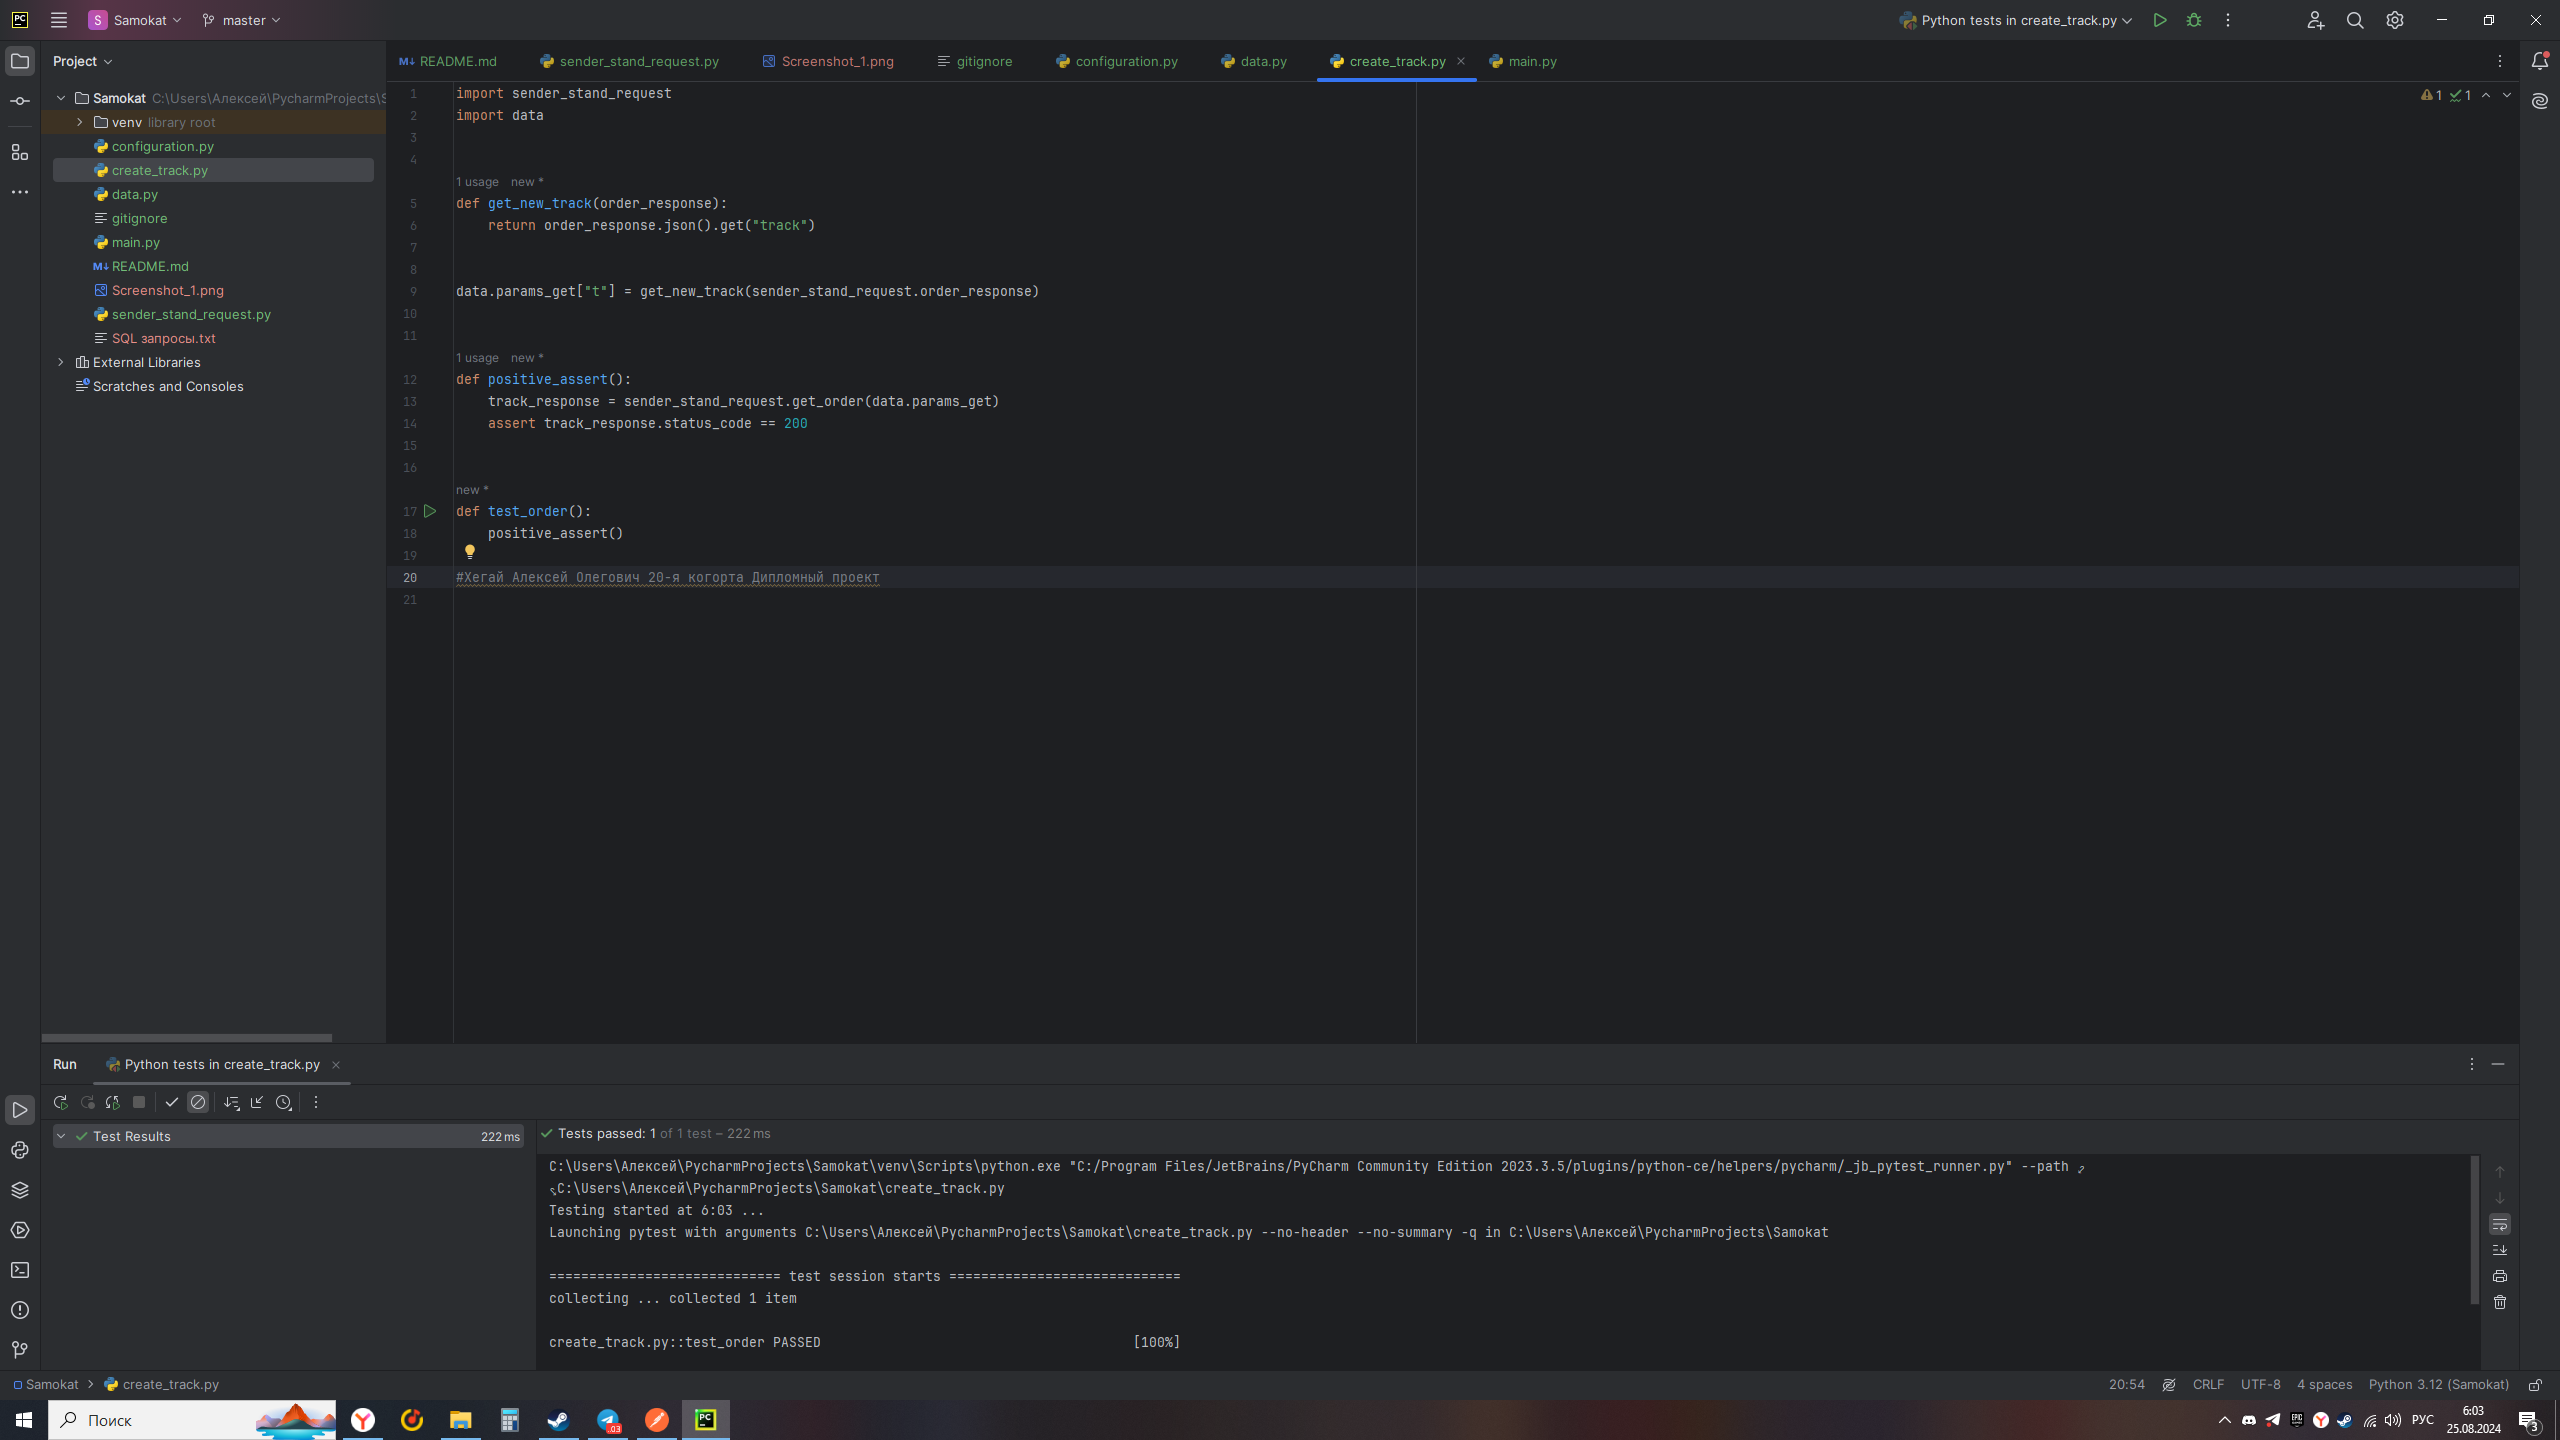
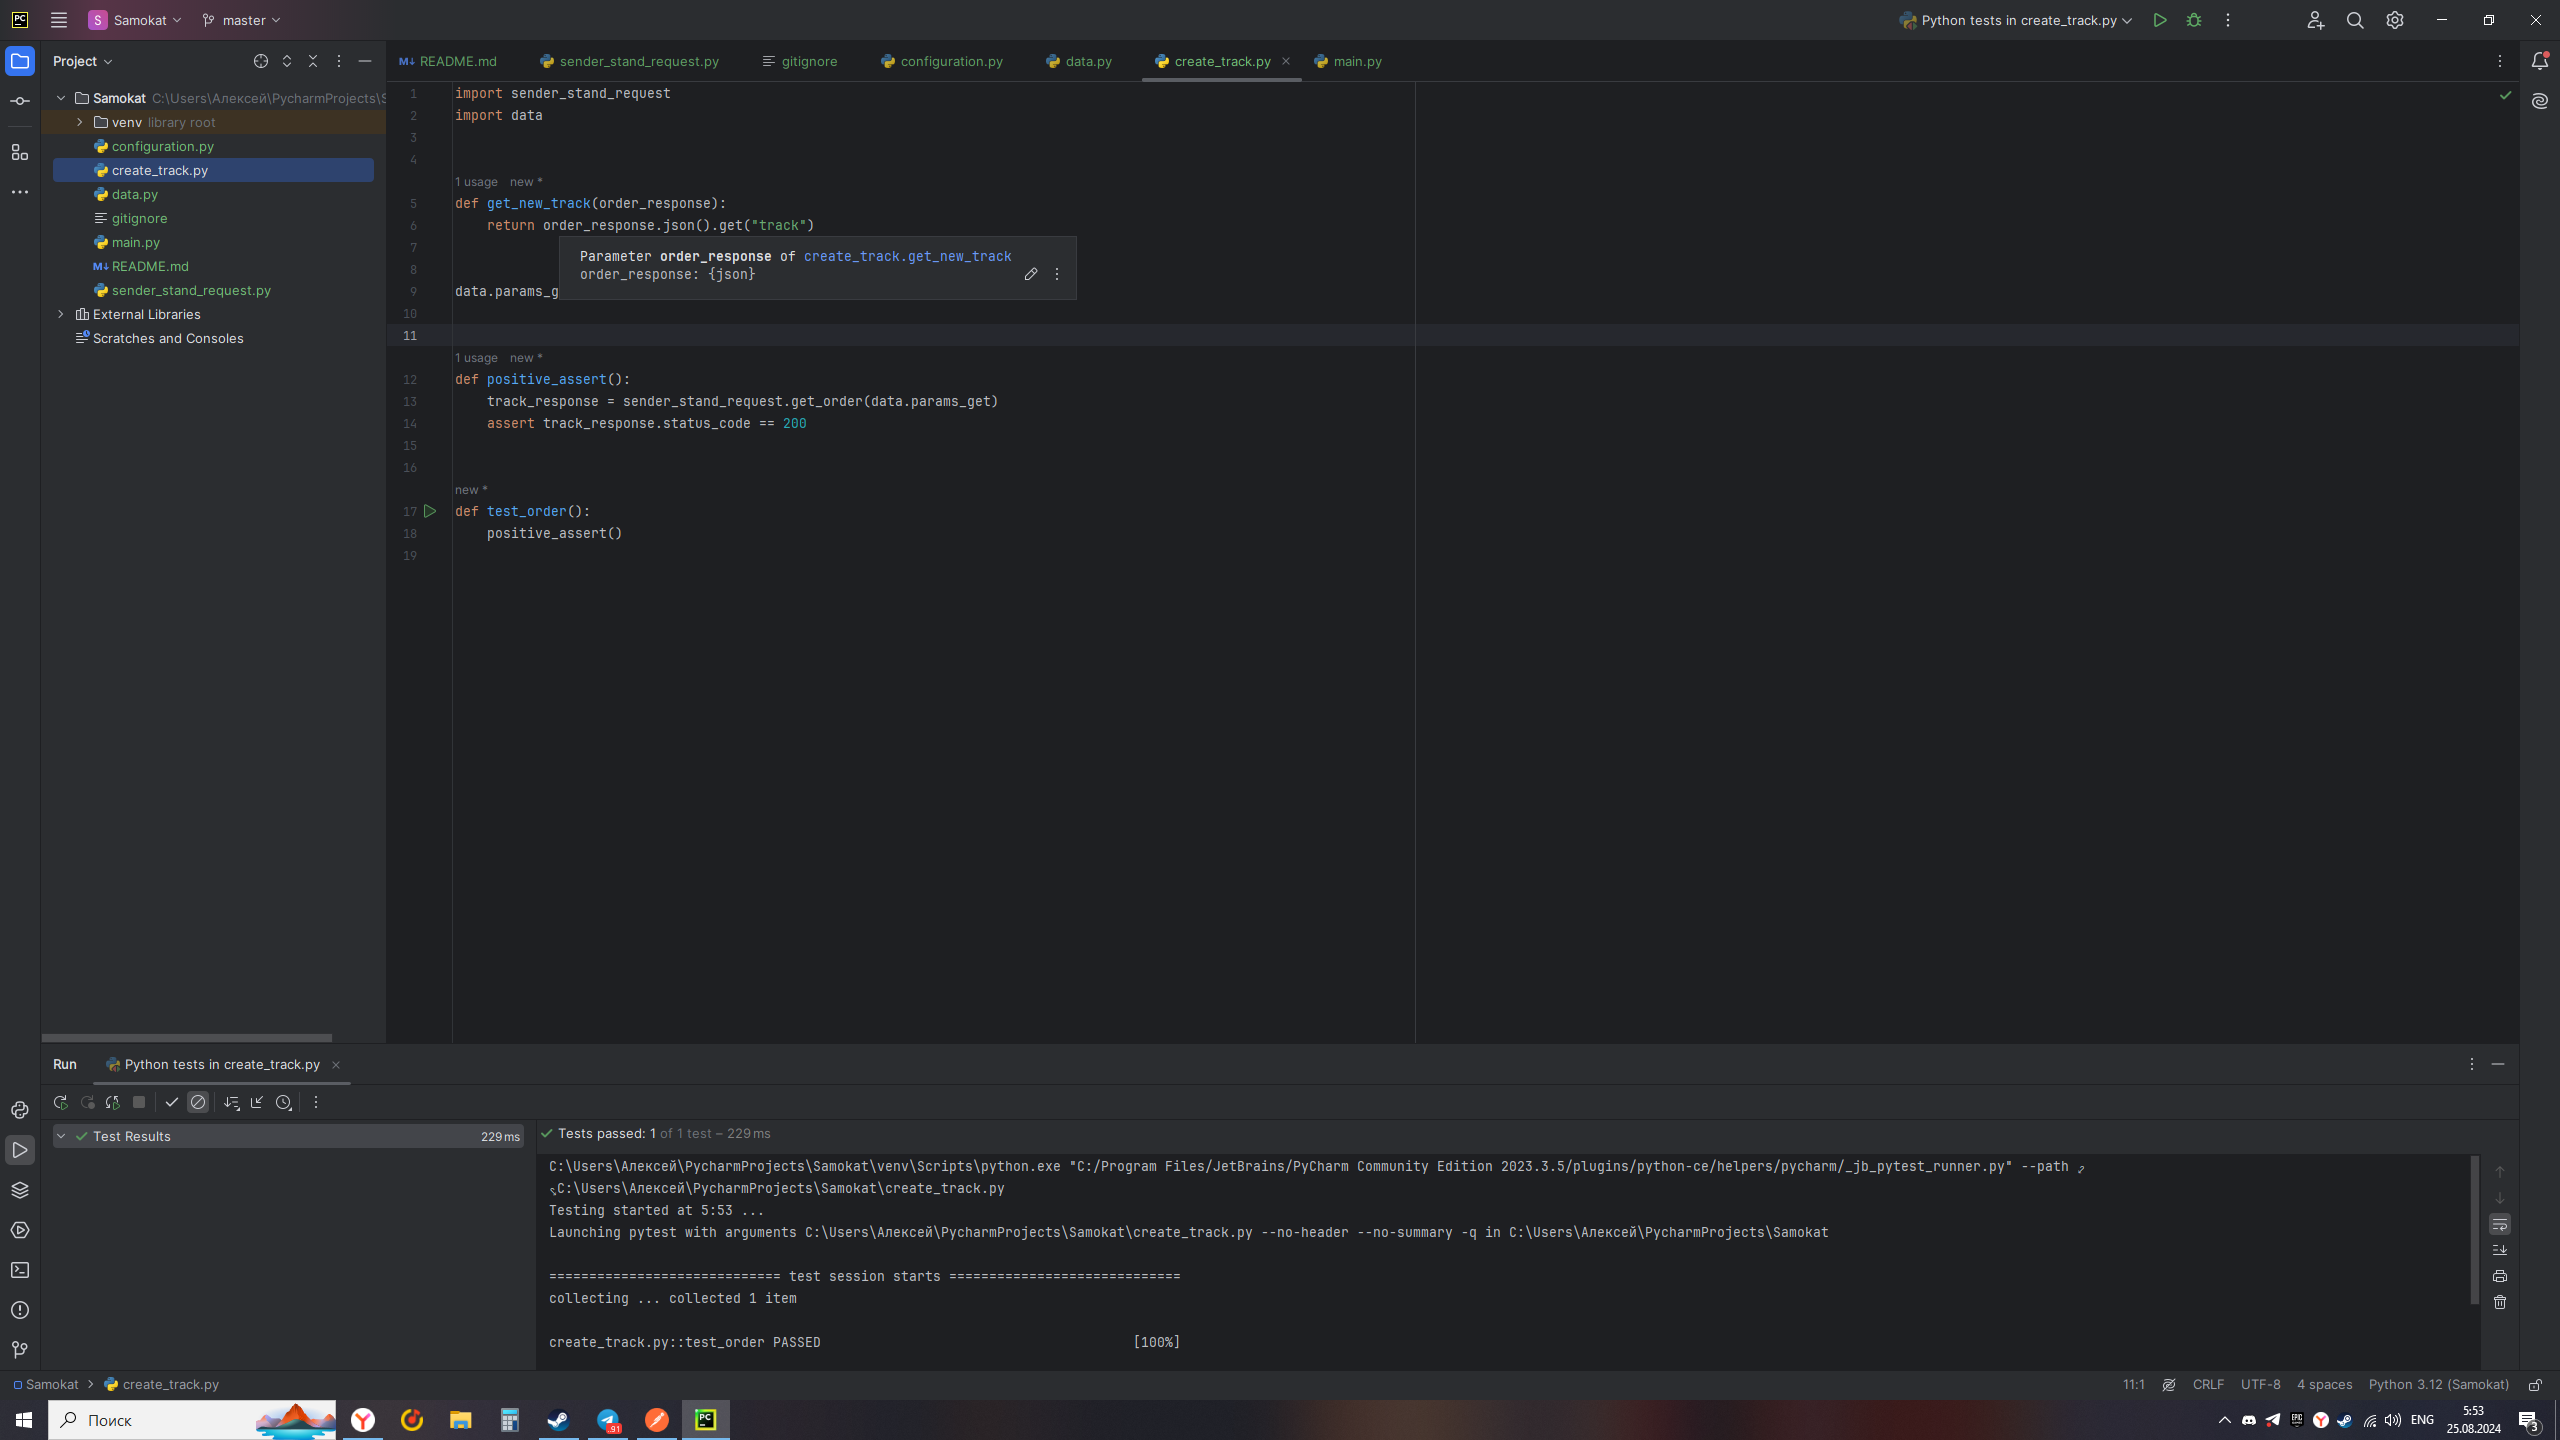
Add files via upload

diff --git a/create_track.py b/create_track.py
@@ -1,19 +1,34 @@
-import sender_stand_request
+import configuration
+
+import requests
+
 import data
+
+
+def post_new_order(body):
+    return requests.post(configuration.URL_SERVICE + configuration.CREATE_ORDER_PATH,
+                         json=body)
+
+
+order_response = post_new_order(data.order_body)
+
+
+def get_order(track_order):
+    return requests.get(configuration.URL_SERVICE + configuration.GET_ORDER_PATH,
+                        params=track_order)
 
 
 def get_new_track(order_response):
     return order_response.json().get("track")
 
 
-data.params_get["t"] = get_new_track(sender_stand_request.order_response)
+data.params_get["t"] = get_new_track(order_response)
 
 
 def positive_assert():
-    track_response = sender_stand_request.get_order(data.params_get)
+    track_response = get_order(data.params_get)
     assert track_response.status_code == 200
 
 
-def test_order():
+def test_get_order_by_track_success():
     positive_assert()
-#Хегай Алексей Олегович 20-я когорта Дипломный проект 

diff --git a/configuration.py b/configuration.py
@@ -1,3 +1,3 @@
-URL_SERVICE = "https://535e2860-d9ed-47be-8204-bab9a4bca960.serverhub.praktikum-services.ru"
+URL_SERVICE = "https://73bd59bd-ed45-49c1-b671-49ed4d7ad0be.serverhub.praktikum-services.ru"
 CREATE_ORDER_PATH = "/api/v1/orders"
-GET_ORDER_PATH = "/api/v1/orders"
+GET_ORDER_PATH = "/api/v1/orders/track"
